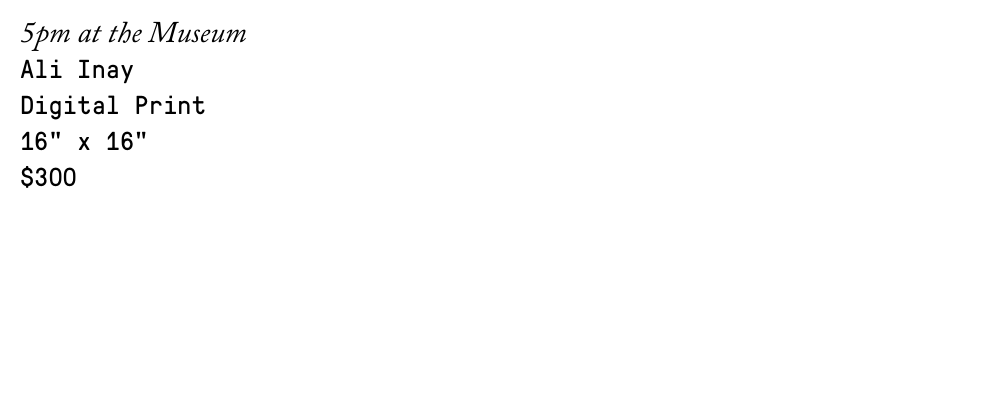
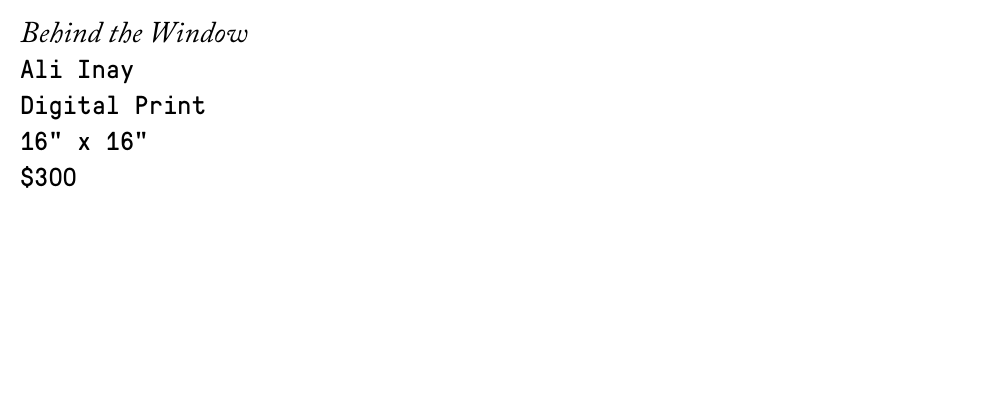
Copy checked and corrections

Changed region(s): [[0.0, 0.06, 0.248, 0.12]]

diff --git a/index.html b/index.html
@@ -99,10 +99,10 @@
                     Instagram is an online pictorial medium that functions insofar as it’s users share and interact with user-generated images. In this way, technology has democratized image-making; putting power in everyone’s hands to stylize an image and project oneself to a given audience. It may be argued that the application serves as a modern-day, self-curated gallery. With over 400 million people opening the application every day, Instagram is an important force on our contemporary visual culture that begs to be investigated.
                     <br/>
                     <br/>
-                    Rather than being swept away by an endless stream of artistic content, we sought to pause, and pull a handful of images out of its consumable, digital format. Centerfold 14 manifests instagram content as fine art displayed in a traditional setting, and the ten featured artists not only exude beauty in their works, but also act as a representation of the more popular work within our millenial culture.
+                    Rather than being swept away by an endless stream of artistic content, we sought to pause, and pull a handful of images out of its consumable, digital format. Centerfold 14 manifests Instagram content as fine art displayed in a traditional setting, and the ten featured artists not only exude beauty in their works, but also act as a representation of the more popular work within our millenial culture.
                     <br/>
                     <br/>
-                    This exhibit touches on many themes and raises several questions. Firstly, it happens that the most popular content on instagram aligns decisively with primary genres of Western contemporary art: food-porn as still-life; urban vistas as landscape; glamourized selfies or model-shots as aristocratic portrait. This exhibition sought out works that allow the viewer to reflect upon these parallels. Next, the Centerfold voting mechanism is a deeper, more complex, version of instagram’s ‘like’ functionality. Questions arise when those comfortable with an unlimited ability to show appreciation of little consequence are confronted with a tangible effect on Artists’ earnings. Lastly, we must ask ourselves if the exhibited artworks purvey beauty-as-art, reinforce traditional capitalist structures by evoking feelings of economic and social envy in the viewer, or both. Instagram is a tool whose monetization necessitates consumer ads, sensationalism, and consumerist culture- does fine art do the same?
+                    This exhibit touches on many themes and raises several questions. Firstly, it happens that the most popular content on Instagram aligns decisively with primary genres of Western contemporary art: food-porn as still-life; urban vistas as landscape; glamourized selfies or model-shots as aristocratic portrait. This exhibition sought out works that allow the viewer to reflect upon these parallels. Next, the Centerfold voting mechanism is a deeper, more complex, version of Instagram’s ‘like’ functionality. Questions arise when those comfortable with an unlimited ability to show appreciation of little consequence are confronted with a tangible effect on Artists’ earnings. Lastly, we must ask ourselves if the exhibited artworks purvey beauty-as-art, reinforce traditional capitalist structures by evoking feelings of economic and social envy in the viewer, or both. Instagram is a tool whose monetization necessitates consumer ads, sensationalism, and consumerist culture- does fine art do the same?
                 </div>
 
                 <div class="art" id="art1">
@@ -139,7 +139,7 @@
                     </div>
                     <div class="artist-card-wrap">
                         <div class="artist-card" id="card3">
-                            <span class="art-title">5pm at the Museum</span><br/>
+                            <span class="art-title">Behind the Window</span><br/>
                             Ali Inay<br/>
                             Digital Print<br/>
                             16" x 16"<br/>
@@ -181,7 +181,7 @@
                     </div>
                     <div class="artist-card-wrap">
                         <div class="artist-card" id="card6">
-                            <span class="art-title">Ayako</span><br/>
+                            <span class="art-title">Miranda</span><br/>
                             Sayeh Gold<br/>
                             Film Print<br/>
                             16" x 16"<br/>
@@ -328,7 +328,7 @@
                     </div>
                     <div class="buy-artist-card-wrap">
                         <div class="buy-artist-card">
-                            <span class="buy-art-title">5pm at the Museum</span><br/>
+                            <span class="buy-art-title">Behind the Window</span><br/>
                             <span class="buy-art-artist">Ali Inay</span><br/><br/><br/>
                             <!-- <span class="buy-art-description">
                                 : ~ )
@@ -433,7 +433,7 @@
                     </div>
                     <div class="buy-artist-card-wrap">
                         <div class="buy-artist-card">
-                            <span class="buy-art-title">Ayako</span><br/>
+                            <span class="buy-art-title">Miranda</span><br/>
                             <span class="buy-art-artist">Sayeh Gold</span><br/><br/><br/>
                             <!-- <span class="buy-art-description">
                                 : ~ )
